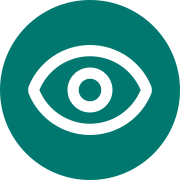
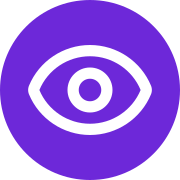
ui refresh: violet preset, clean step styling, collapsible details pane
- Apply shadcn preset b5TiUdXFtA (luma / neutral / violet / neutral charts,
  Inter + Roboto Slab unchanged). Recolor favicon set (svg + 16/32 + apple-
  touch) from teal #00786f to violet #6d28d9 to match the new --primary.
- StepNode: drop the bg-muted pill fill in favor of a transparent rounded-
  full border. Hover gets bg-muted/40 tint; selected swaps to border-primary
  with bg-primary/5 inset. Reduces visual stacking against the container.
- WorkflowContainerNode: remove shadow-md / shadow-sm from all three states
  (selected, isCurrent, default). Borders alone carry the structure now
  that the step layer is quieter.
- ResultPane: rename eyebrow "Workflow result" / "Step #N result" to
  "... details" since the pane shows metadata + events + result, not just
  the result. Add a collapse toggle (PanelRightClose / PanelRightOpen via
  the icon-sm ghost Button to match the layout's sidebar trigger and theme
  switcher); when collapsed, hide the body and let the page animate the
  pane width down to a 64px peek showing only the toggle button.
- workflows/[id] page: track collapsed state and animate effective width
  (transition disabled mid-drag). Drag-from-collapsed anchors the drag at
  PEEK_WIDTH so the pane grows out of the peek under the cursor instead
  of jumping to the saved expanded width; releasing below MIN_RIGHT snaps
  back to collapsed and restores the prior expanded width.

diff --git a/apps/console/src/theme.css b/apps/console/src/theme.css
@@ -1,20 +1,20 @@
 /*
- * Theme generated from shadcn preset b5XSmcsWXI.
+ * Theme generated from shadcn preset b5TiUdXFtA.
  *
  * Preset
- *   code         b5XSmcsWXI
+ *   code         b5TiUdXFtA
  *   version      b
  *   style        luma
  *   baseColor    neutral
- *   theme        teal
- *   chartColor   orange
+ *   theme        violet
+ *   chartColor   neutral
  *   iconLibrary  lucide
  *   font         inter
  *   fontHeading  roboto-slab
  *   radius       medium
  *   menuAccent   subtle
  *   menuColor    default
- *   url          https://ui.shadcn.com/create?preset=b5XSmcsWXI
+ *   url          https://ui.shadcn.com/create?preset=b5TiUdXFtA
  *
  * Do not edit by hand — regenerate with:
  *   pnpm --filter console theme:sync <preset-code>
@@ -30,8 +30,8 @@
     --card-foreground: oklch(0.145 0 0);
     --popover: oklch(1 0 0);
     --popover-foreground: oklch(0.145 0 0);
-    --primary: oklch(0.511 0.096 186.391);
-    --primary-foreground: oklch(0.984 0.014 180.72);
+    --primary: oklch(0.491 0.27 292.581);
+    --primary-foreground: oklch(0.969 0.016 293.756);
     --secondary: oklch(0.967 0.001 286.375);
     --secondary-foreground: oklch(0.21 0.006 285.885);
     --muted: oklch(0.97 0 0);
@@ -42,16 +42,16 @@
     --border: oklch(0.922 0 0);
     --input: oklch(0.922 0 0);
     --ring: oklch(0.708 0 0);
-    --chart-1: oklch(0.837 0.128 66.29);
-    --chart-2: oklch(0.705 0.213 47.604);
-    --chart-3: oklch(0.646 0.222 41.116);
-    --chart-4: oklch(0.553 0.195 38.402);
-    --chart-5: oklch(0.47 0.157 37.304);
+    --chart-1: oklch(0.87 0 0);
+    --chart-2: oklch(0.556 0 0);
+    --chart-3: oklch(0.439 0 0);
+    --chart-4: oklch(0.371 0 0);
+    --chart-5: oklch(0.269 0 0);
     --radius: 0.625rem;
     --sidebar: oklch(0.985 0 0);
     --sidebar-foreground: oklch(0.145 0 0);
-    --sidebar-primary: oklch(0.6 0.118 184.704);
-    --sidebar-primary-foreground: oklch(0.984 0.014 180.72);
+    --sidebar-primary: oklch(0.541 0.281 293.009);
+    --sidebar-primary-foreground: oklch(0.969 0.016 293.756);
     --sidebar-accent: oklch(0.97 0 0);
     --sidebar-accent-foreground: oklch(0.205 0 0);
     --sidebar-border: oklch(0.922 0 0);
@@ -66,8 +66,8 @@
     --card-foreground: oklch(0.985 0 0);
     --popover: oklch(0.205 0 0);
     --popover-foreground: oklch(0.985 0 0);
-    --primary: oklch(0.437 0.078 188.216);
-    --primary-foreground: oklch(0.984 0.014 180.72);
+    --primary: oklch(0.432 0.232 292.759);
+    --primary-foreground: oklch(0.969 0.016 293.756);
     --secondary: oklch(0.274 0.006 286.033);
     --secondary-foreground: oklch(0.985 0 0);
     --muted: oklch(0.269 0 0);
@@ -78,15 +78,15 @@
     --border: oklch(1 0 0 / 10%);
     --input: oklch(1 0 0 / 15%);
     --ring: oklch(0.556 0 0);
-    --chart-1: oklch(0.837 0.128 66.29);
-    --chart-2: oklch(0.705 0.213 47.604);
-    --chart-3: oklch(0.646 0.222 41.116);
-    --chart-4: oklch(0.553 0.195 38.402);
-    --chart-5: oklch(0.47 0.157 37.304);
+    --chart-1: oklch(0.87 0 0);
+    --chart-2: oklch(0.556 0 0);
+    --chart-3: oklch(0.439 0 0);
+    --chart-4: oklch(0.371 0 0);
+    --chart-5: oklch(0.269 0 0);
     --sidebar: oklch(0.205 0 0);
     --sidebar-foreground: oklch(0.985 0 0);
-    --sidebar-primary: oklch(0.704 0.14 182.503);
-    --sidebar-primary-foreground: oklch(0.277 0.046 192.524);
+    --sidebar-primary: oklch(0.606 0.25 292.717);
+    --sidebar-primary-foreground: oklch(0.969 0.016 293.756);
     --sidebar-accent: oklch(0.269 0 0);
     --sidebar-accent-foreground: oklch(0.985 0 0);
     --sidebar-border: oklch(1 0 0 / 10%);

diff --git a/apps/console/src/routes/workflows/[id]/+page.svelte b/apps/console/src/routes/workflows/[id]/+page.svelte
@@ -51,16 +51,36 @@
   const workflowId = $derived(page.params.id ?? "");
 
   let rightWidth = $state(384); // matches the previous w-96
+  let collapsed = $state(false);
   let dragging = $state(false);
   let dragStartX = 0;
   let dragStartWidth = 0;
+  // Width to restore if a drag-from-collapsed releases below MIN_RIGHT.
+  let savedRightWidth = 0;
+  let dragFromCollapsed = false;
   const MIN_RIGHT = 280;
   const MAX_RIGHT = 900;
+  // Width left visible when collapsed: just enough to show the eyebrow's
+  // 32px (icon-sm) toggle button + the eyebrow's px-4 horizontal padding.
+  const PEEK_WIDTH = 64;
+
+  const effectiveRightWidth = $derived(collapsed ? PEEK_WIDTH : rightWidth);
 
   function onHandlePointerDown(e: PointerEvent) {
     dragging = true;
     dragStartX = e.clientX;
-    dragStartWidth = rightWidth;
+    dragFromCollapsed = collapsed;
+    if (collapsed) {
+      // Drag from collapsed: anchor the drag at the peek width so the pane
+      // grows out of the peek under the cursor instead of jumping straight
+      // to the saved expanded width.
+      savedRightWidth = rightWidth;
+      dragStartWidth = PEEK_WIDTH;
+      rightWidth = PEEK_WIDTH;
+      collapsed = false;
+    } else {
+      dragStartWidth = rightWidth;
+    }
     (e.currentTarget as HTMLElement).setPointerCapture(e.pointerId);
   }
 
@@ -68,11 +88,22 @@
     if (!dragging) return;
     const delta = e.clientX - dragStartX;
     const next = dragStartWidth - delta;
-    rightWidth = Math.max(MIN_RIGHT, Math.min(MAX_RIGHT, next));
+    // Drag-from-collapsed allows widths down to PEEK_WIDTH so the user can
+    // back out of an expand. Drag-from-expanded keeps MIN_RIGHT so the pane
+    // stays usable.
+    const min = dragFromCollapsed ? PEEK_WIDTH : MIN_RIGHT;
+    rightWidth = Math.max(min, Math.min(MAX_RIGHT, next));
   }
 
   function onHandlePointerUp(e: PointerEvent) {
     dragging = false;
+    if (dragFromCollapsed && rightWidth < MIN_RIGHT) {
+      // Released without expanding past MIN_RIGHT — snap back to collapsed
+      // and restore the previously-expanded width for next expand.
+      collapsed = true;
+      rightWidth = savedRightWidth;
+    }
+    dragFromCollapsed = false;
     (e.currentTarget as HTMLElement).releasePointerCapture(e.pointerId);
   }
 
@@ -273,12 +304,20 @@
         </span>
       </button>
     </div>
-    <div class="flex-none" style="width: {rightWidth}px">
+    <div
+      class="flex-none overflow-hidden"
+      class:transition-[width]={!dragging}
+      class:duration-200={!dragging}
+      class:ease-out={!dragging}
+      style="width: {effectiveRightWidth}px"
+    >
       <ResultPane
         {selection}
         {result}
         loading={resultLoading}
         events={detail.events}
+        {collapsed}
+        onToggleCollapse={() => (collapsed = !collapsed)}
       />
     </div>
   </div>

diff --git a/apps/console/src/lib/components/ResultPane.svelte b/apps/console/src/lib/components/ResultPane.svelte
@@ -3,10 +3,13 @@
   import type { FlowSelection } from "./WorkflowFlow.svelte";
   import { formatStatus, statusBadgeClass } from "$lib/workflow-tree";
   import { Badge } from "$lib/components/ui/badge/index.js";
+  import { Button } from "$lib/components/ui/button/index.js";
   import * as Dialog from "$lib/components/ui/dialog/index.js";
   import Copy from "@lucide/svelte/icons/copy";
   import Check from "@lucide/svelte/icons/check";
   import Maximize2 from "@lucide/svelte/icons/maximize-2";
+  import PanelRightClose from "@lucide/svelte/icons/panel-right-close";
+  import PanelRightOpen from "@lucide/svelte/icons/panel-right-open";
 
   // Result data is loaded lazily by the parent page (cached for the lifetime
   // of the page) so we never drag potentially-large output blobs through
@@ -43,11 +46,15 @@
     result,
     loading = false,
     events = [],
+    collapsed = false,
+    onToggleCollapse,
   }: {
     selection: FlowSelection;
     result: ResultData | null;
     loading?: boolean;
     events?: WorkflowEventEntry[];
+    collapsed?: boolean;
+    onToggleCollapse?: () => void;
   } = $props();
 
   type ViewMode = "raw" | "decoded";
@@ -72,7 +79,7 @@
       const dur =
         new Date(w.updated_at).getTime() - new Date(w.started_at).getTime();
       return {
-        resultLabel: "Workflow result",
+        resultLabel: "Workflow details",
         title: w.name ?? "—",
         subtitle: w.workflow_id,
         status: w.status,
@@ -86,7 +93,7 @@
         ? new Date(s.completed_at).getTime() - new Date(s.started_at).getTime()
         : null;
     return {
-      resultLabel: `Step #${s.function_id} result`,
+      resultLabel: `Step #${s.function_id} details`,
       title: s.function_name,
       subtitle: s.workflow_id,
       status: null as string | null,
@@ -364,12 +371,30 @@
 
 <aside class="bg-card flex h-full w-full flex-col overflow-hidden">
   <div class="border-border bg-muted/30 flex min-h-10 items-center gap-2 border-b px-4 py-2.5">
-    <span class="text-muted-foreground text-xs font-medium tracking-wide uppercase">
+    <span class="text-muted-foreground truncate text-xs font-medium tracking-wide uppercase">
       {heading?.resultLabel ?? "Result"}
     </span>
+    {#if onToggleCollapse}
+      <Button
+        variant="ghost"
+        size="icon-sm"
+        class="ml-auto"
+        onclick={onToggleCollapse}
+        title={collapsed ? "Expand" : "Collapse"}
+        aria-label={collapsed ? "Expand details pane" : "Collapse details pane"}
+      >
+        {#if collapsed}
+          <PanelRightOpen />
+        {:else}
+          <PanelRightClose />
+        {/if}
+      </Button>
+    {/if}
   </div>
 
-  {#if !selection || !heading}
+  {#if collapsed}
+    <!-- Body hidden — only the eyebrow header is visible, acting as a tab. -->
+  {:else if !selection || !heading}
     <div class="text-muted-foreground flex flex-1 items-center justify-center p-6 text-sm">
       Select a workflow or step to see its result.
     </div>

diff --git a/apps/console/src/lib/components/StepNode.svelte b/apps/console/src/lib/components/StepNode.svelte
@@ -59,8 +59,10 @@
 </script>
 
 <div
-  class="bg-muted flex h-full w-full cursor-pointer items-center gap-2 rounded-full px-3 py-1
-    {selected ? 'ring-primary ring-2 ring-inset' : ''}"
+  class="flex h-full w-full cursor-pointer items-center gap-2 rounded-full border px-3 py-1
+    {selected
+      ? 'border-primary bg-primary/5'
+      : 'border-border hover:bg-muted/40'}"
 >
   {#if !data.isFirst}
     <Handle type="target" position={Position.Top} isConnectable={false} />

diff --git a/apps/console/src/lib/components/WorkflowContainerNode.svelte b/apps/console/src/lib/components/WorkflowContainerNode.svelte
@@ -23,10 +23,10 @@
 <div
   class="bg-card relative flex h-full w-full cursor-pointer flex-col rounded-2xl border
     {selected
-      ? 'border-primary shadow-md'
+      ? 'border-primary'
       : data.isCurrent
-        ? 'border-primary/50 shadow-sm'
-        : 'border-foreground/15 shadow-sm'}"
+        ? 'border-primary/50'
+        : 'border-foreground/15'}"
 >
   <Handle
     id="spawn"